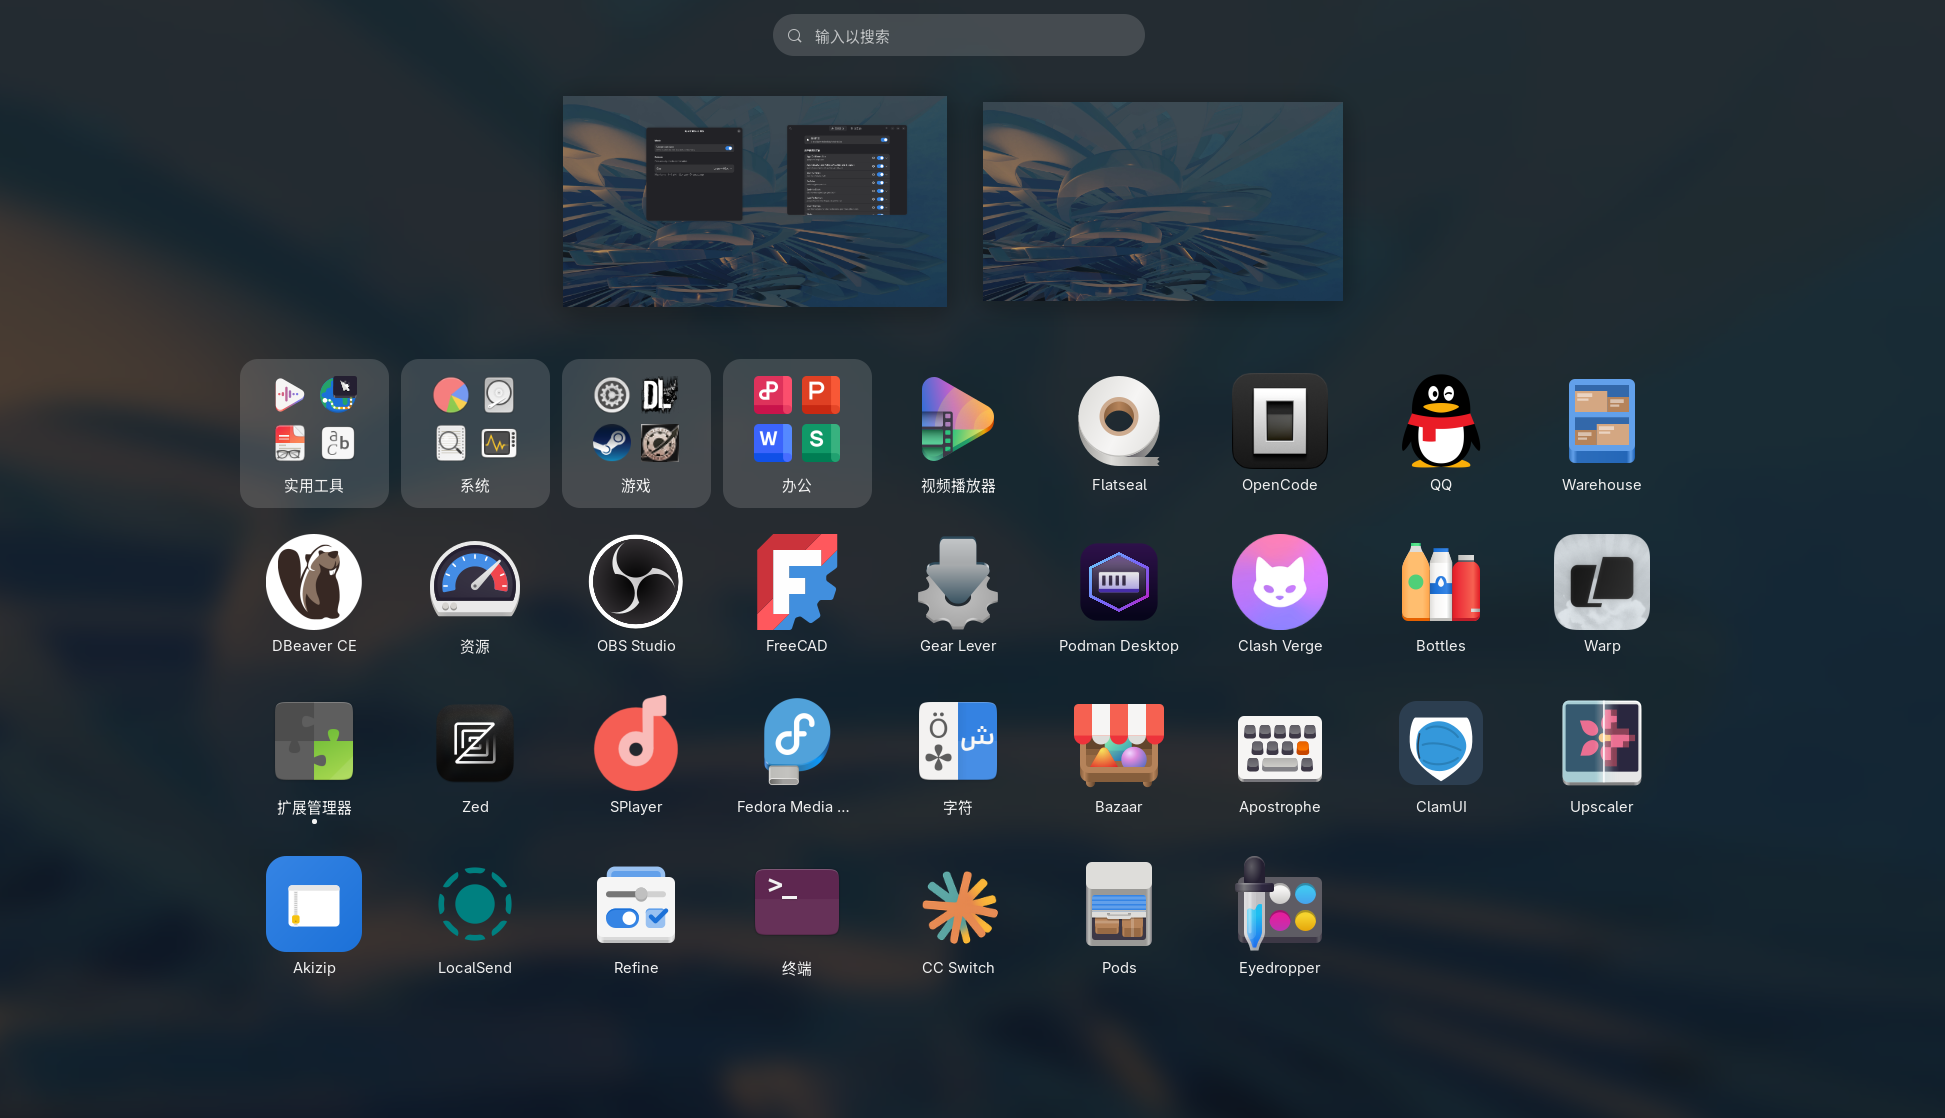
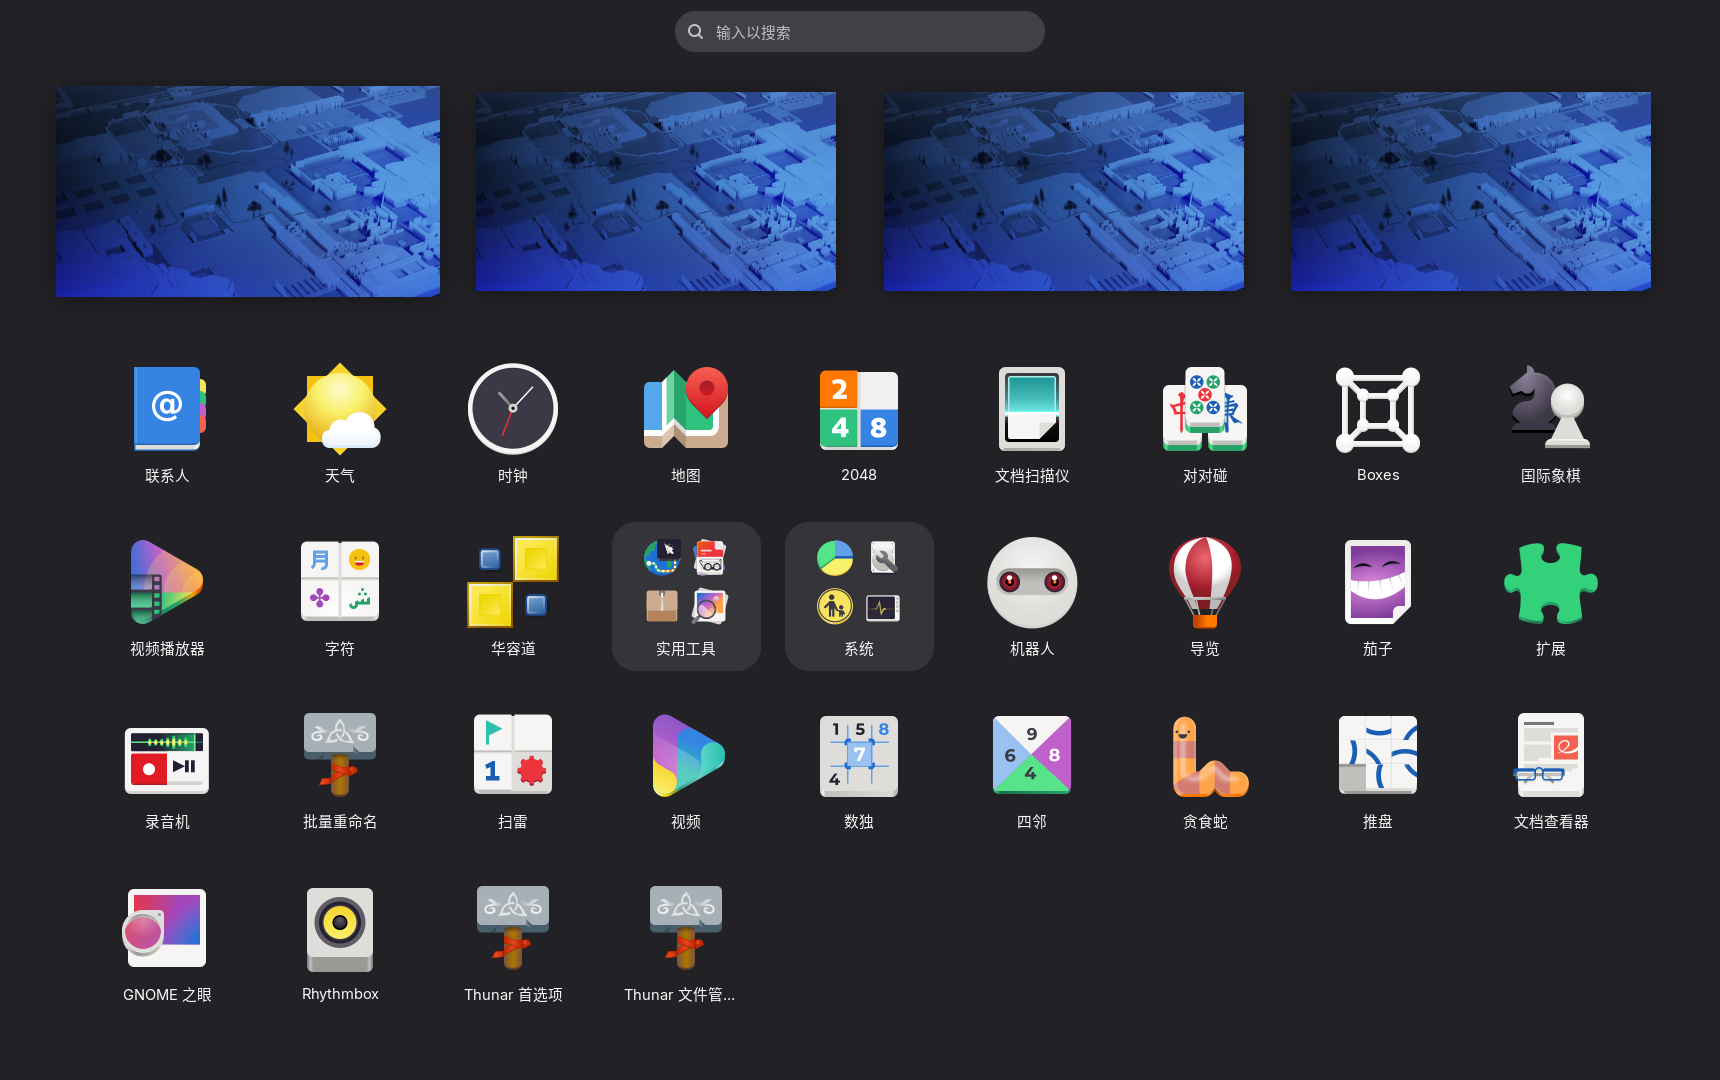
docs: refresh screenshots for the localized preferences UI
Replace the outdated preset/custom captures with the current root menu,
App grid, Folder dialog pages and a real 3x3 folder dialog.

diff --git a/README.md b/README.md
@@ -23,6 +23,8 @@ Current version: **1.3.4**
 
 ## Screenshots
 
+The screenshots show the Simplified Chinese interface; the UI follows the system locale.
+
 **App Grid — Large Icons**
 
 ![Large Icons](images/large_icon.png)
@@ -31,13 +33,21 @@ Current version: **1.3.4**
 
 ![Medium](images/medium.png)
 
-**Preferences — Preset Mode**
+**Preferences — Root menu with a live overview preview**
 
-![Preset mode with a live App Grid preview](images/preset-mode-preview.png)
+![Preferences root menu](images/preferences-root.png)
 
-**Preferences — Custom Mode**
+**Preferences — App grid**
 
-![Custom mode with independent grid controls and a live preview](images/custom-mode-preview.png)
+![App grid settings with a live preview](images/preferences-app-grid.png)
+
+**Preferences — Folder dialog**
+
+![Folder dialog settings with a dedicated preview](images/preferences-folder-dialog.png)
+
+**Folder dialog — configured 3×3 grid**
+
+![Folder dialog with a configured 3x3 grid](images/folder-dialog.png)
 
 ## Presets
 
